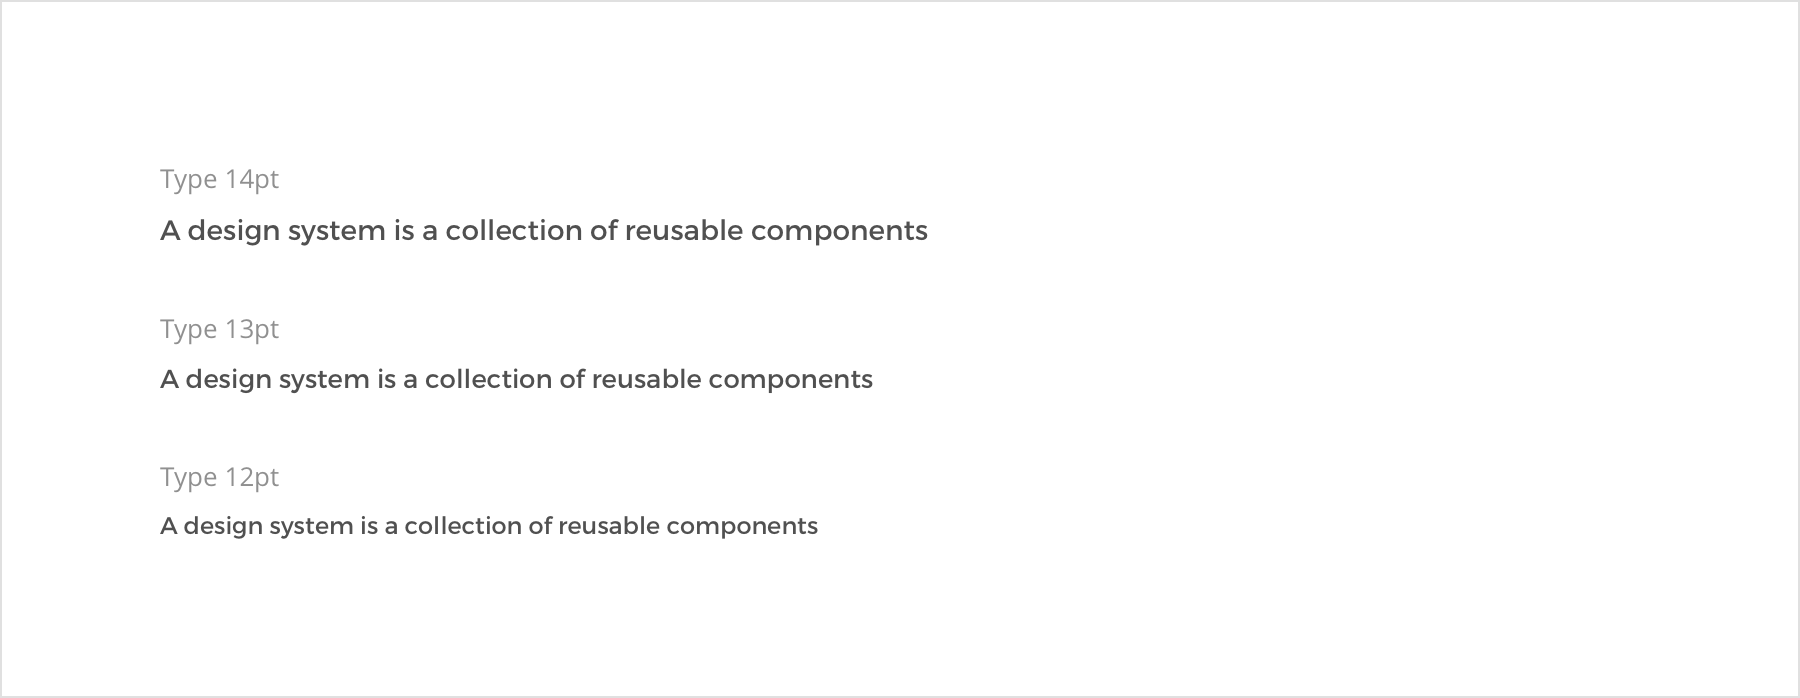
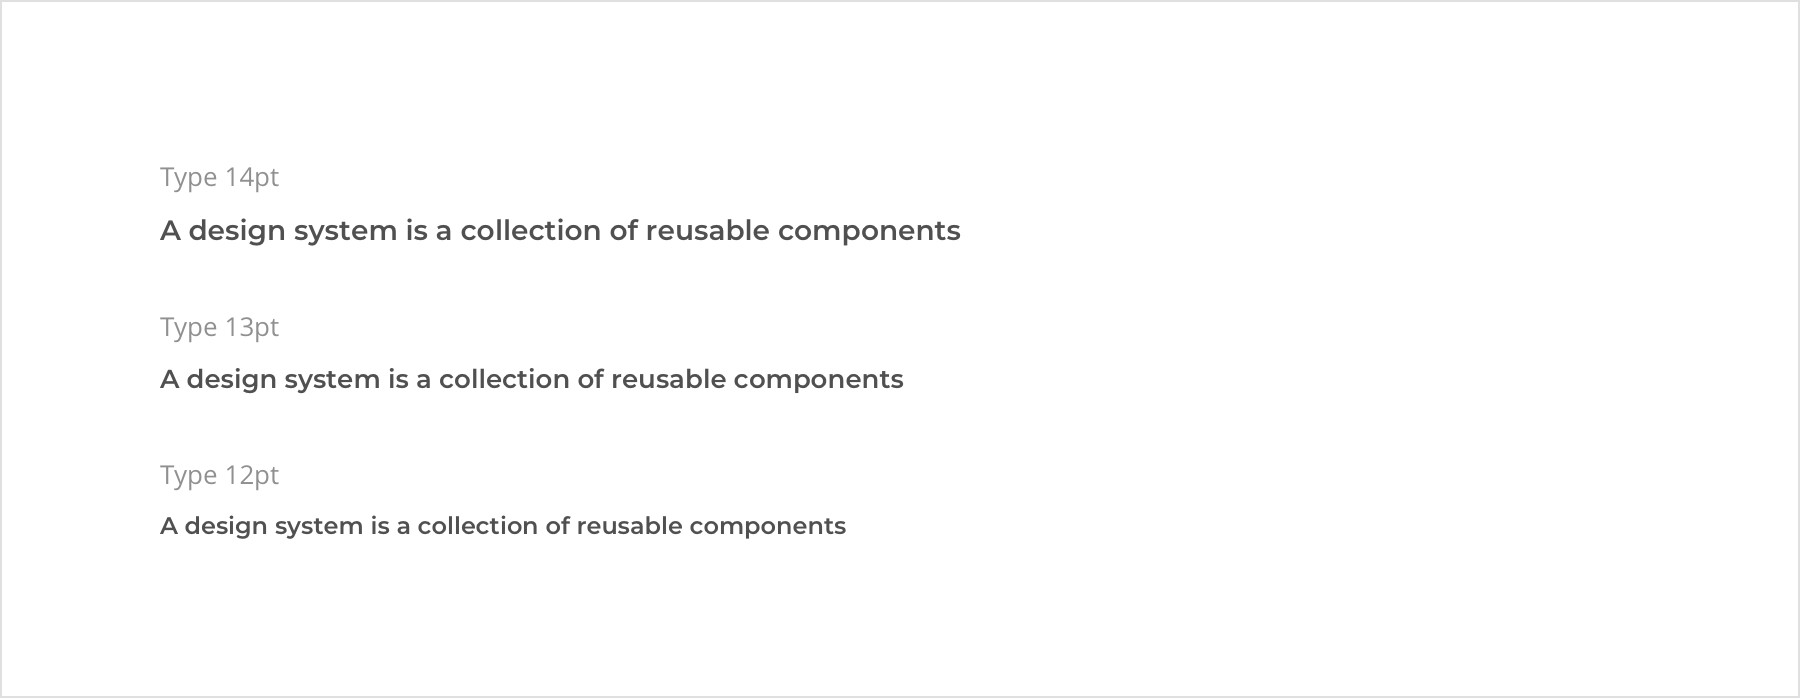
Updates foundations/typography.md
Auto commit by GitBook Editor

diff --git a/foundations/typography.md b/foundations/typography.md
@@ -35,7 +35,7 @@ Open Sans typeface is used in following colors: **Black 300**, **Black 200**, **
 
 ##### Weight
 
-This typeface is used only in **Regular** weight.
+This typeface is used only in **Semibold** weight.
 
 ![](/assets/foundations/typography-montserrat-weight.png)
 
